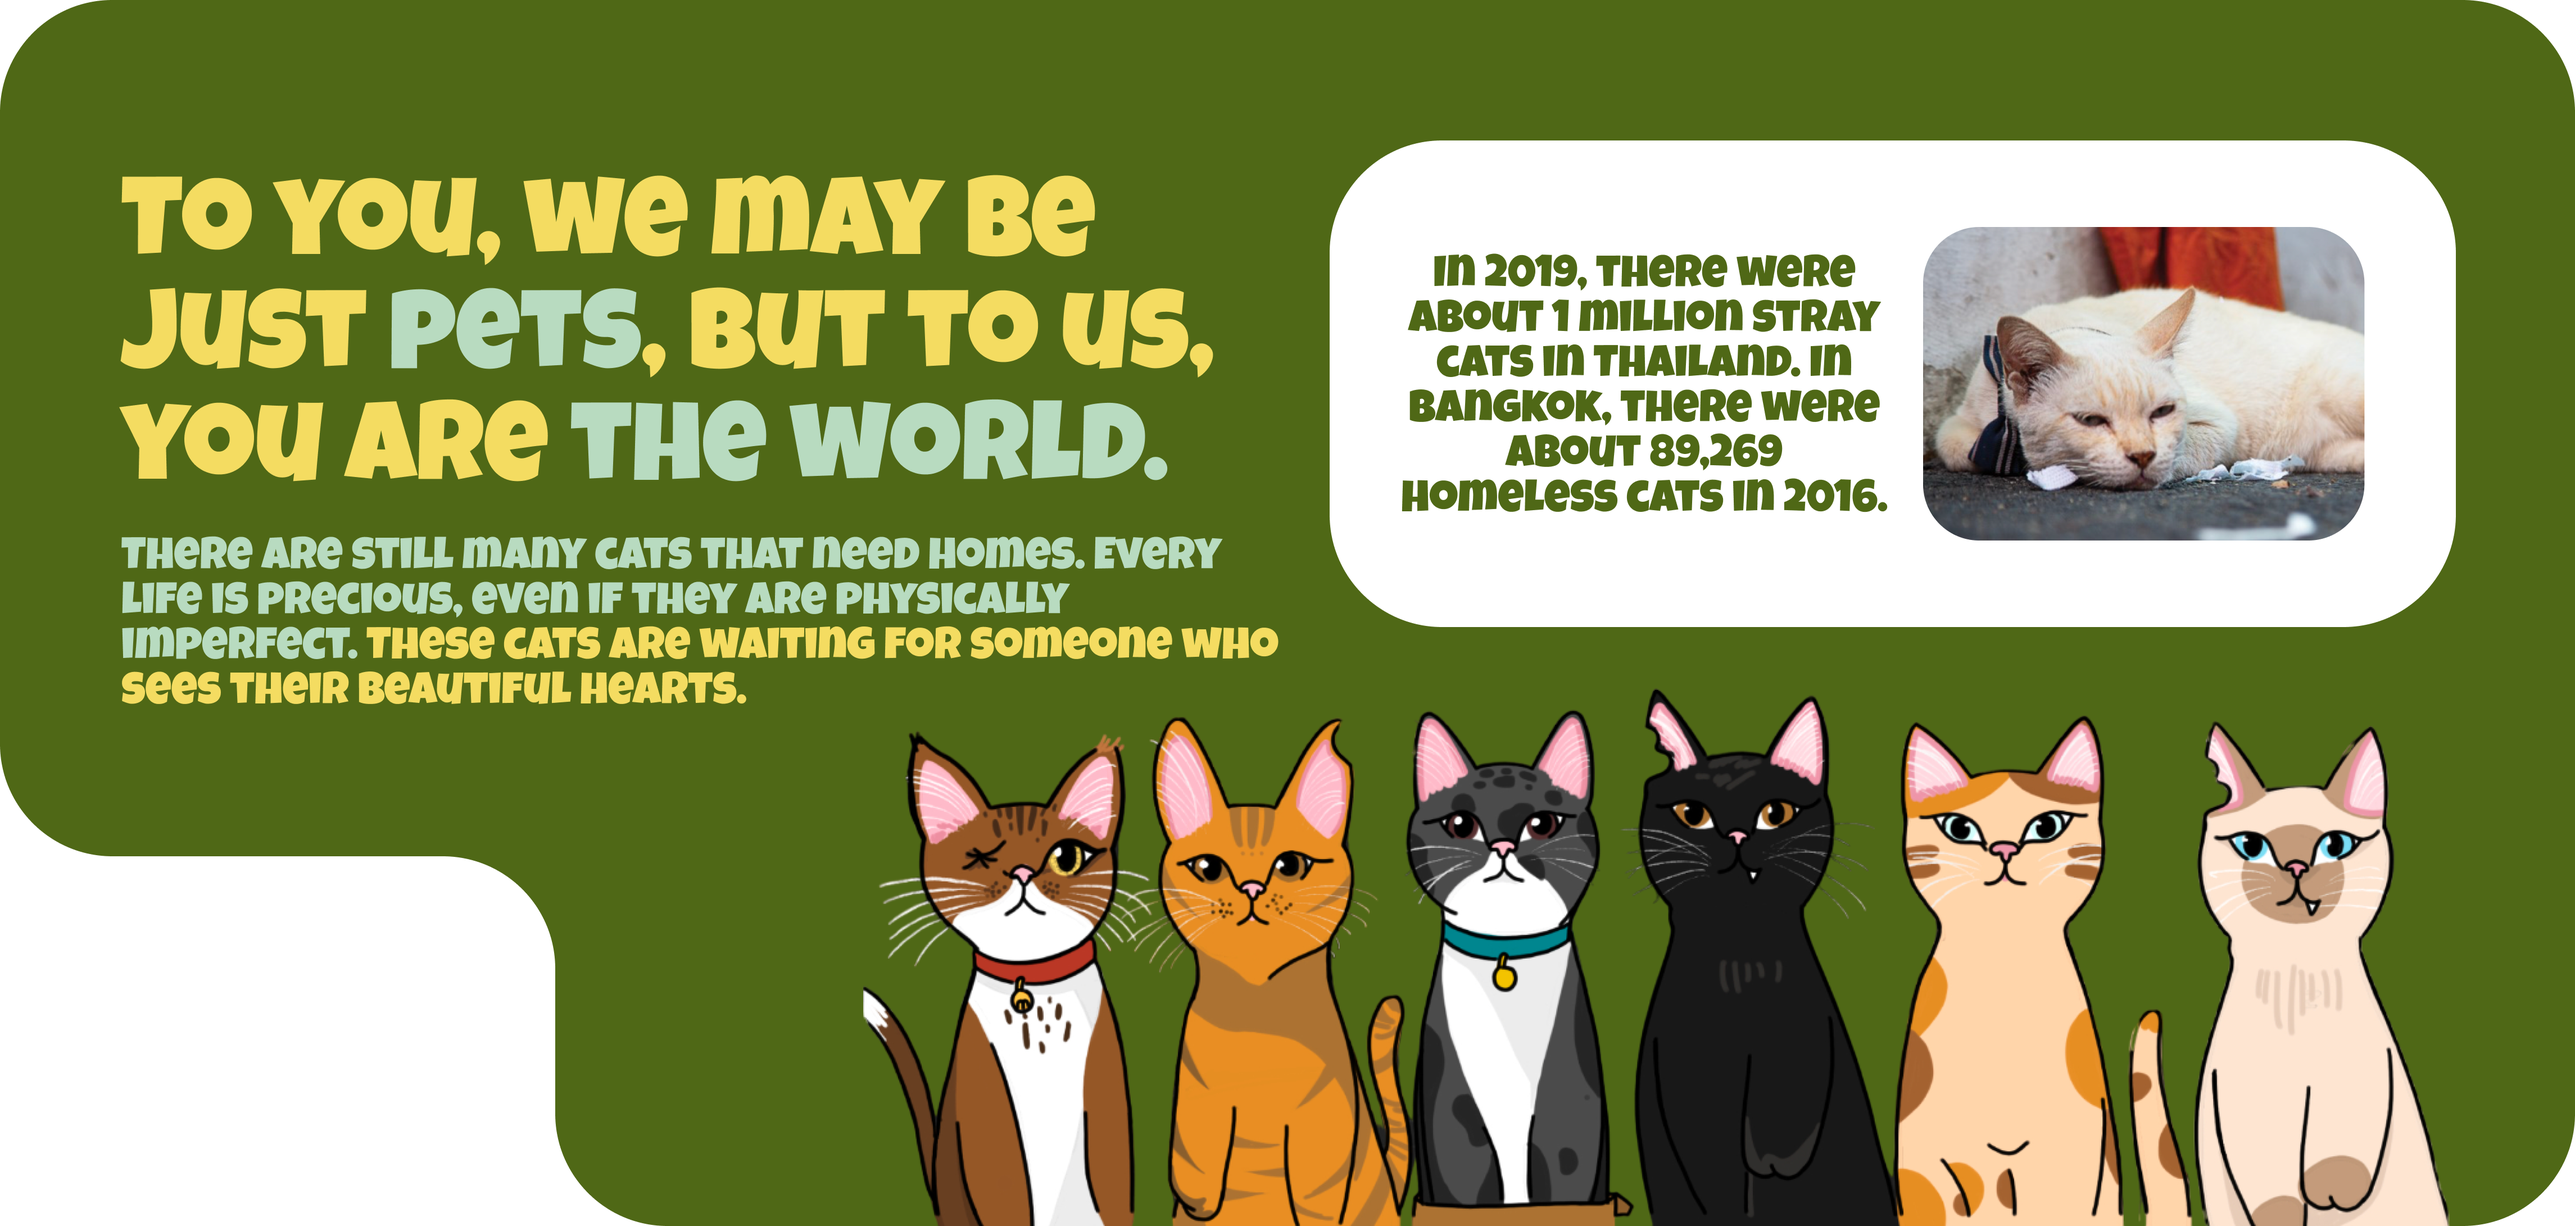
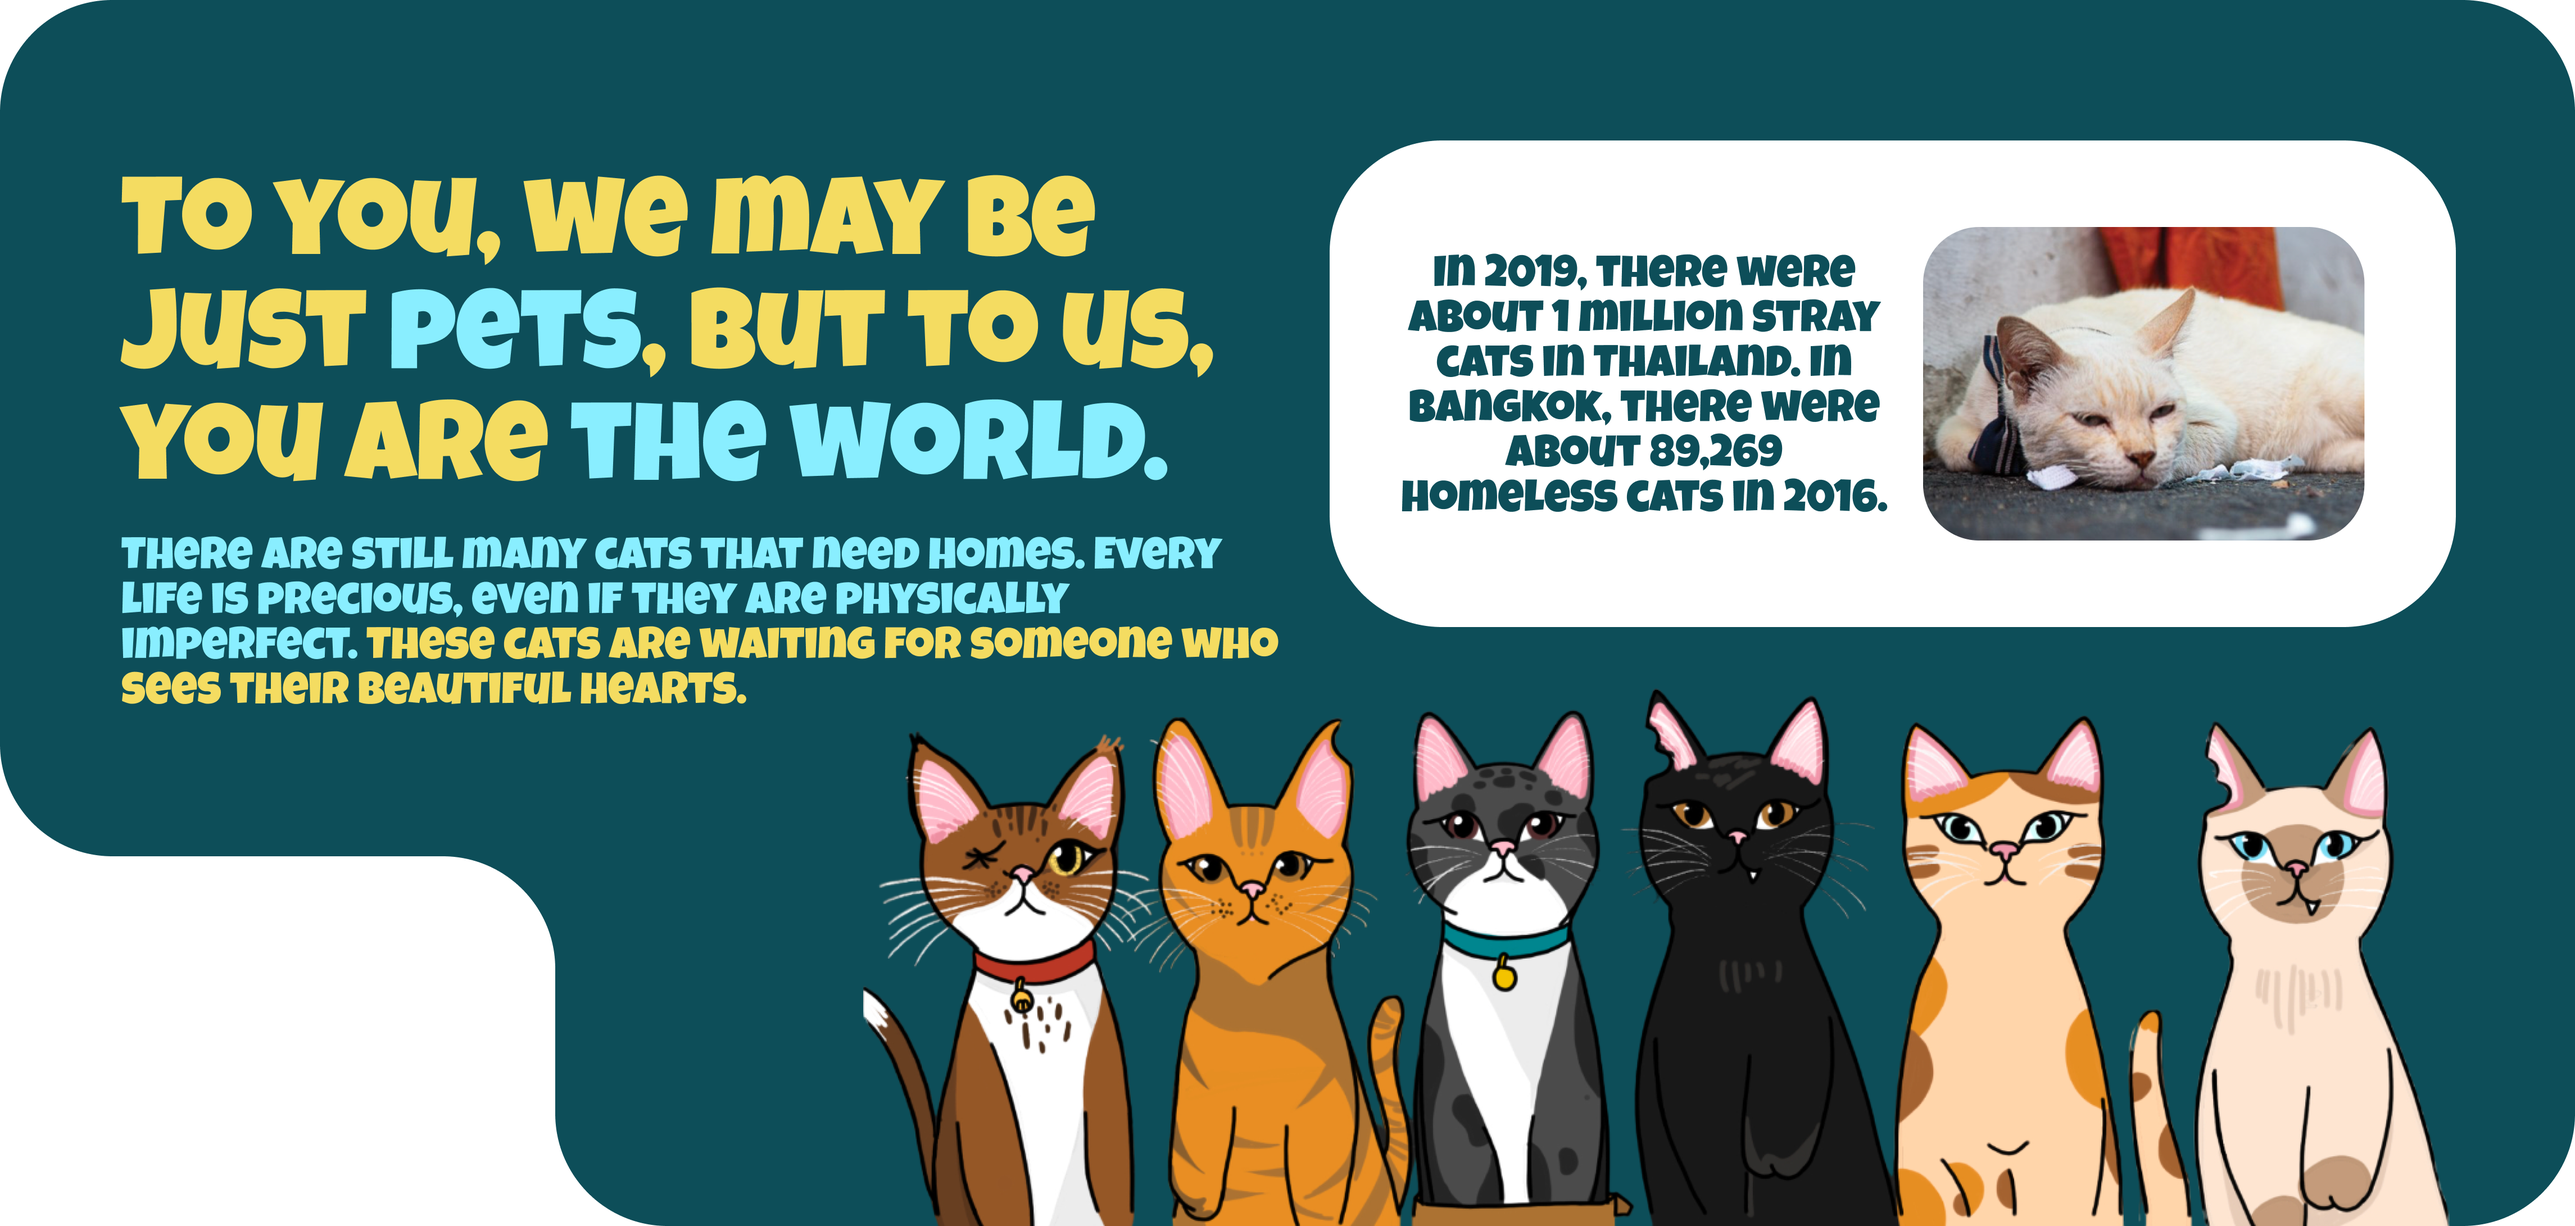
update

diff --git a/WebM_Te/latcostllostcat/component/Hero2.jsx b/WebM_Te/latcostllostcat/component/Hero2.jsx
@@ -1,36 +1,203 @@
 "use client";
 
 import Image from "next/image";
+import { useEffect, useState } from "react";
 
 export default function Hero2() {
+  const [checkIndex, setCheckIndex] = useState(1);
+  const [isRunning, setIsRunning] = useState(true);
+  const [text, _] = useState({
+    text1: [
+      `Jingjo: The Little Cat Who Never Gave Up Jingjo was born without her front legs.She came into the world alongside her siblings, but
+            sadly, all of them passed away, leaving her the only survivor. Local
+            vendors tried their best to help her.Some days, they would move her
+            to different spots to hide from stray dogs, but no one could take
+            her home — not everyone had enough time or resources to care for a
+            special needs kitten like Jingjo. Not only did she move slowly
+            because of her missing front legs, but she also had a crossed eye
+            and might be blind in one eye.`,
+      `But don't worry — today, Jingjo has finally found a loving forever home!`,
+    ],
+    text2: [
+      `Chocolate is a cat who was born completely blind in both eyes.Without the ability to see, he spent his early days living at a temple, where he had no owner to care for him.Each day was a challenge, as he struggled to find his way around and survive without the gift of sight.`,
+      `But now, Chocolate has finally found a loving home.`,
+    ],
+    text3: [``, ``],
+    text4: [``, ``],
+    text5: [``, ``],
+  });
+  const [catSw, setCatSw] = useState({
+    nameColor: "text-[#89EEFF]",
+    name: "jing-joe(kangaroo)",
+    textU: text.text1[0],
+    textD: text.text1[1],
+    bgcolor: "bg-[#0D4E59]",
+    bg: `rotate-[0deg]`,
+    cat1: `rotate-[0deg] left-[-30vw] top-[0vw]`,
+    cat2: `scale-[0.3] rotate-[0deg] left-[-8vw] top-[-18vw] blur-xl`,
+    cat3: `scale-[0.4] rotate-[0deg]  right-[-10vw] top-[1vw] blur-xl`,
+    cat4: `scale-[0.4] rotate-[0deg] left-[16vw] bottom-[-10vw] blur-xl`,
+    cat5: `scale-[0.35] rotate-[0deg] left-[-2vw] top-[22vw] blur-xl`,
+  });
+  const catF = () => {
+    if (checkIndex % 5 === 1) {
+      setCatSw({
+        nameColor: "text-[#FFB7B7]",
+        name: "Chocolate",
+        textU: text.text2[0],
+        textD: text.text2[1],
+        bgcolor: "bg-[#6B2B2B]",
+        bg: `rotate-[-72deg]`,
+        cat1: `scale-[0.3] rotate-[72deg] left-[-19vw] top-[-2vw] blur-xl`,
+        cat2: `rotate-[72deg] left-[-8vw] top-[-30vw]`,
+        cat3: `scale-[0.33] rotate-[72deg] right-[-10vw] top-[-7vw] blur-xl`,
+        cat4: `scale-[0.4] rotate-[72deg] left-[16vw] bottom-[-10vw] blur-xl`,
+        cat5: `scale-[0.4] rotate-[72deg] left-[-5vw] top-[20vw] blur-xl`,
+      });
+    } else if (checkIndex % 5 === 2) {
+      setCatSw({
+        nameColor: "text-[#]",
+        name: "",
+        textU: text.text3[0],
+        textD: text.text3[1],
+        bgcolor: "bg-[#1F322B]",
+        bg: `rotate-[-144deg]`,
+        cat1: `scale-[0.4] rotate-[144deg] left-[-10vw] top-[2vw] blur-xl`,
+        cat2: `scale-[0.3] rotate-[144deg] left-[-3vw] top-[-18vw] blur-xl`,
+        cat3: `rotate-[144deg] right-[-20vw] top-[-9vw]`,
+        cat4: `scale-[0.3] rotate-[144deg] left-[23vw] bottom-[-5vw] blur-xl`,
+        cat5: `scale-[0.3] rotate-[144deg] left-[-5vw] top-[20vw] blur-xl`,
+      });
+    } else if (checkIndex % 5 === 3) {
+      setCatSw({
+        nameColor: "text-[#]",
+        name: "",
+        textU: text.text4[0],
+        textD: text.text4[1],
+        bgcolor: "bg-[#2A1C3C]",
+        bg: `rotate-[-216deg]`,
+        cat1: `scale-[0.4] rotate-[216deg] left-[-10vw] top-[2vw] blur-xl`,
+        cat2: `scale-[0.4] rotate-[216deg] left-[2vw] top-[-15vw] blur-xl`,
+        cat3: `scale-[0.33] rotate-[216deg] right-[-10vw] top-[-4vw] blur-xl`,
+        cat4: `rotate-[216deg] left-[30vw] bottom-[-15vw]`,
+        cat5: `scale-[0.32] rotate-[216deg] left-[0vw] top-[24vw] blur-xl`,
+      });
+    } else if (checkIndex % 5 === 4) {
+      setCatSw({
+        nameColor: "text-[#]",
+        name: "",
+        textU: text.text5[0],
+        textD: text.text5[1],
+        bgcolor: "bg-[#523110]",
+        bg: `rotate-[-288deg]`,
+        cat1: `scale-[0.3] rotate-[288deg] left-[-20vw] top-[2vw] blur-xl`,
+        cat2: `scale-[0.4] rotate-[288deg] left-[2vw] top-[-15vw] blur-xl`,
+        cat3: `scale-[0.4] rotate-[288deg] right-[-10vw] top-[1vw] blur-xl`,
+        cat4: `scale-[0.33] rotate-[288deg] left-[19vw] bottom-[-7vw] blur-xl`,
+        cat5: `rotate-[288deg] left-[-7vw] top-[32vw]`,
+      });
+    } else {
+      setCatSw({
+        nameColor: "text-[#89EEFF]",
+        name: "jing-joe(kangaroo)",
+        textU: text.text1[0],
+        textD: text.text1[1],
+        bgcolor: "bg-[#0D4E59]",
+        bg: `rotate-[0deg]`,
+        cat1: `rotate-[0deg] left-[-30vw] top-[0vw]`,
+        cat2: `scale-[0.3] rotate-[0deg] left-[-8vw] top-[-18vw] blur-xl`,
+        cat3: `scale-[0.4] rotate-[0deg]  right-[-10vw] top-[1vw] blur-xl`,
+        cat4: `scale-[0.4] rotate-[0deg] left-[16vw] bottom-[-10vw] blur-xl`,
+        cat5: `scale-[0.35] rotate-[0deg] left-[-2vw] top-[22vw] blur-xl`,
+      });
+    }
+    setCheckIndex(checkIndex + 1);
+  };
+
+  useEffect(() => {
+    if (isRunning) {
+      const timer = setTimeout(() => {
+        catF();
+      }, 2000);
+
+      return () => clearTimeout(timer);
+    }
+  }, [isRunning, checkIndex]);
+
+  const stopTimer = () => {
+    if (!isRunning) {
+      catF();
+    }
+    setIsRunning(false);
+    const timer = setTimeout(() => {
+      setIsRunning(true);
+    }, 10000);
+    return () => clearTimeout(timer);
+  };
+
   return (
-    <div className="w-screen h-[65vw] relative flex flex-col top-[-15vw] items-center overflow-hidden pt-[5vw]">
-      <div className=" absolute bg-[url('/image/component/footcat1.png')] bg-cover bg-center w-[30vw] h-[30vw] top-[-8vw] right-0 z-[-1]"></div>
-      <h1 className="text-[#4F6816] text-[6.5vw]">Caring furry friends</h1>
-      <div className=" w-full relative snap-x flex overflow-x-scroll">
-        <div className="flex gap-[10vw] py-5 px-1">
-          {Array.from({ length: 5 }).map((_, index) => {
-            return (
-              <div
-                key={index}
-                className={`hover:scale-105 relative snap-center w-[22vw] h-[30vw] bg-[url('/image/bgcat.png')] bg-cover bg-center duration-500 rounded-2xl flex flex-col justify-center items-center`}
-              >
-                <Image
-                  src={`/image/cat/cat${index + 1}.png`}
-                  width={100}
-                  height={100}
-                  alt={`${index}`}
-                  className="w-[80%]"
-                />
-                <button className=" absolute bottom-[1vw] text-[2vw] bg-[#F4DC61] px-[25%] rounded-4xl pt-[4%]">
-                  Read
-                </button>
-              </div>
-            );
-          })}
+    <div className="w-screen flex items-center flex-col relative">
+      <div className=" absolute bg-[url('/image/Hero2/footcat1.png')] bg-cover bg-center w-[10vw] h-[10vw] top-[-14vw] left-[9.5vw]"></div>
+      <h1 className="text-[6.5vw] text-[#0D4E59] relative top-[-11vw]">
+        caring furry friend
+      </h1>
+      <div
+        className={`w-[90vw] h-[45vw] rounded-[3.5vw] ${catSw.bgcolor} duration-1000 ease-in-out relative top-[-12vw] flex overflow-hidden`}
+        onClick={stopTimer}
+      >
+        <div className=" absolute bg-[url('/image/Hero2/c1.png')] bg-cover bg-center w-[25vw] h-[25vw]" />
+        <div className=" absolute bg-[url('/image/Hero2/c2.png')] bg-cover bg-center w-[45vw] h-[40vw] left-[22vw] top-[3vw]" />
+        <div className=" absolute bg-[url('/image/Hero2/c3.png')] bg-cover bg-center w-[20vw] h-[20vw] right-0" />
+        <div className=" absolute bg-[url('/image/Hero2/c4.png')] bg-cover bg-center w-[20vw] h-[20vw] right-0 bottom-0" />
+
+        <div className="flex flex-col z-[1] relative top-[8vw] left-[5vw]  duration-1000 ease-in-out">
+          <div className={`text-[3vw] ${catSw.nameColor}`}>{catSw.name}</div>
+          <div className="w-[40%] text-[1.3vw] text-[#fff]">{catSw.textU}</div>
+          <div className="w-[40%] text-[1.3vw] mt-[2vw] text-[#fff]">
+            {catSw.textD}
+          </div>
+        </div>
+
+        <div
+          className={` w-[40%] h-[80%] rounded-full absolute right-[-20vw] top-[5vw] rotate-[-0deg] duration-1000 ease-in-out ${catSw.bg}`}
+        >
+          <Image
+            src={"/image/cat/cat1.png"}
+            width={1000}
+            height={1000}
+            alt="cat_1"
+            className={`w-[40vw] h-[35vw] ${catSw.cat1} duration-1000 ease-in-out absolute`}
+          />
+          <Image
+            src={"/image/cat/cat2.png"}
+            width={1000}
+            height={1000}
+            alt="cat_1"
+            className={`w-[40vw] h-[35vw] ${catSw.cat2} duration-1000 ease-in-out absolute`}
+          />
+          <Image
+            src={"/image/cat/cat3.png"}
+            width={1000}
+            height={1000}
+            alt="cat_1"
+            className={`w-[25vw] h-[25vw] ${catSw.cat3} duration-1000 ease-in-out absolute`}
+          />
+          <Image
+            src={"/image/cat/cat4.png"}
+            width={1000}
+            height={1000}
+            alt="cat_1"
+            className={`w-[25vw] h-[25vw] ${catSw.cat4} duration-1000 ease-in-out absolute`}
+          />
+          <Image
+            src={"/image/cat/cat5.png"}
+            width={1000}
+            height={1000}
+            alt="cat_1"
+            className={`w-[25vw] h-[25vw] ${catSw.cat5} duration-1000 ease-in-out absolute`}
+          />
         </div>
       </div>
-      <div className=" absolute bg-[url('/image/component/footcat2.png')] bg-cover bg-center w-[25vw] h-[30vw] bottom-[-3vw] left-0 z-[-1]"></div>
     </div>
   );
 }

diff --git a/WebM_Te/latcostllostcat/component/Hero3.jsx b/WebM_Te/latcostllostcat/component/Hero3.jsx
@@ -4,17 +4,17 @@ import Link from "next/link";
 
 export default function Hero3() {
   return (
-    <div className="w-screen flex flex-col justify-center items-center z-[1] relative">
-      <div className="bg-[url('/image/Hero3/bgfull.png')] bg-cover bg-center w-[85vw] h-[40.5vw] absolute top-[-25vw]"></div>
-      <div className="w-screen h-[25vw] bg-[#90BC9A] relative mt-[30vw]">
-        <div className=" absolute w-[34vw] h-[35vw] bg-[url('/image/Hero3/cat.png')] bg-cover bg-center top-[-19vw]"></div>
-        <div className=" relative w-[25vw] right-[-35vw] top-[5vw] text-[1.5vw] text-[#4F6816]">
+    <div className="w-screen flex flex-col justify-center items-center z-[1] relative mt-[12vw]">
+      <div className="bg-[url('/image/Hero3/bgfull.png')] duration-500 ease-in-out hover:scale-105 bg-cover bg-center w-[85vw] h-[40.5vw] absolute top-[-20vw]"></div>
+      <div className="w-screen h-[20vw] bg-[#1997AD] relative mt-[25vw] max-[441px]:h-[62vw]">
+        <div className=" absolute w-[15vw] h-[16vw] bg-[url('/image/Hero3/cat.png')] bg-cover bg-center left-[4vw] top-[2vw]"></div>
+        <div className=" relative w-[35vw] right-[-23vw] top-[3vw] text-[2.2vw] text-[#0E4F5A]">
           If you{"'"}d like to give a special cat a loving home or support our
           mission, we{"'"}re here for you! Feel free to reach out — we{"'"}re
           happy to help. 🐾
         </div>
-        <div className=" relative right-[-70vw] top-[-8vw] flex flex-col gap-[1vw]">
-          <h1 className=" relative text-[#4F6816] bg-[#FFFFFF] text-[2.5vw] w-[20vw] flex justify-center items-center pt-[1vw] rounded-4xl">
+        <div className=" relative right-[-70vw] top-[-13vw] flex flex-col gap-[1vw]">
+          <h1 className=" relative text-[#0D4E59] bg-[#FFFFFF] text-[2.5vw] w-[20vw] flex justify-center items-center pt-[1vw] rounded-4xl">
             Contact us
           </h1>
           <div className="flex gap-[4vw] relative right-[2vw] top-[1vw]">
@@ -29,7 +29,7 @@ export default function Hero3() {
                 width={100}
                 height={100}
                 alt="ig"
-                className="w-[5vw] h-[5vw] hover:scale-105 duration-300 ease-in-out"
+                className="w-[5vw] h-[5vw] hover:scale-110 duration-300 ease-in-out"
               />
             </Link>
             <Link href={"tel:0645809429"}>
@@ -38,7 +38,7 @@ export default function Hero3() {
                 width={100}
                 height={100}
                 alt="Tel"
-                className="w-[5vw] h-[5vw] hover:scale-105 duration-300 ease-in-out"
+                className="w-[5vw] h-[5vw] hover:scale-110 duration-300 ease-in-out"
               />
             </Link>
             <Link
@@ -51,7 +51,7 @@ export default function Hero3() {
                 width={100}
                 height={100}
                 alt="mail"
-                className="w-[5vw] h-[5vw] hover:scale-105 duration-300 ease-in-out"
+                className="w-[5vw] h-[5vw] hover:scale-110 duration-300 ease-in-out"
               />
             </Link>
           </div>

diff --git a/WebM_Te/latcostllostcat/component/Hero1.jsx b/WebM_Te/latcostllostcat/component/Hero1.jsx
@@ -4,11 +4,10 @@ import Link from "next/link";
 export default function Hero1() {
   return (
     <div className="w-screen relative flex flex-col items-center">
-        <div className="bg-[#B8DBC0] absolute w-full h-[50vw]"></div>
-      <h1 className="text-[#4F6816] text-[5vw] absolute animate-slide">
+      <h1 className="text-[#0D4E59] text-[5vw] absolute animate-slide">
         Welcome to
       </h1>
-      <h1 className="text-[#4F6816] text-[18vw] font-RubikMaps animate-text relative">
+      <h1 className="text-[#0D4E59] text-[18vw] font-RubikMaps animate-text relative">
         <span>L</span>
         <span>A</span>
         <span>T</span> <span>C</span>
@@ -16,6 +15,7 @@ export default function Hero1() {
         <span>S</span>
         <span>T</span>
       </h1>
+      <div className=" absolute bg-[url('/image/Hero1/footcat1.png')] bg-cover bg-center w-[8vw] h-[8vw] top-[-3vw] right-[28.5vw] animate-slide"></div>
       <Image
         src="/image/4cat.png"
         width={1300}
@@ -23,7 +23,7 @@ export default function Hero1() {
         alt="BigCat"
         className=" w-full z-[1] animate-scale relative top-[-15vw]"
       />
-      <Link href={"https://www.youtube.com"} target="_bank" className="animate-scale font-JosefinSans hover:scale-105 duration-300 ease-in-out bg-[#F4DC61] py-[0.3vw] px-[1vw] rounded-3xl absolute bottom-[18vw] z-[1] text-[3vw]">Start here {">"}</Link>
+      <Link href={"https://www.youtube.com"} target="_bank" className="animate-scale hover:scale-105 duration-300 ease-in-out bg-[#F4DC61] hover:bg-[#000] hover:text-[#F4DC61] py-[0.3vw] px-[3vw] rounded-4xl absolute bottom-[18vw] z-[1] text-[3vw] pt-[1vw]">Start here</Link>
     </div>
   );
 }

diff --git a/WebM_Te/latcostllostcat/component/Head.jsx b/WebM_Te/latcostllostcat/component/Head.jsx
@@ -8,7 +8,7 @@ export default function Head() {
   const [log, setLog] = useState(["translate-x-[60px]", "translate-x-[90px]",0]);
   return (
     <div
-      className={`flex justify-between items-center h-[120px] px-10 overflow-hidden bg-[#B8DBC0]`}
+      className={`flex justify-between items-center h-[120px] px-10 overflow-hidden `}
     >
       <Image
         src={"/image/logo.png"}

diff --git a/WebM_Te/latcostllostcat/app/layout.js b/WebM_Te/latcostllostcat/app/layout.js
@@ -18,7 +18,7 @@ export default function RootLayout({ children }) {
       <head>
         <link rel="icon" href="/favicon.ico" type="image/x-icon" />
       </head>
-      <body className={``}>
+      <body className={` w-screen h-screen`}>
         {children}
       </body>
     </html>
